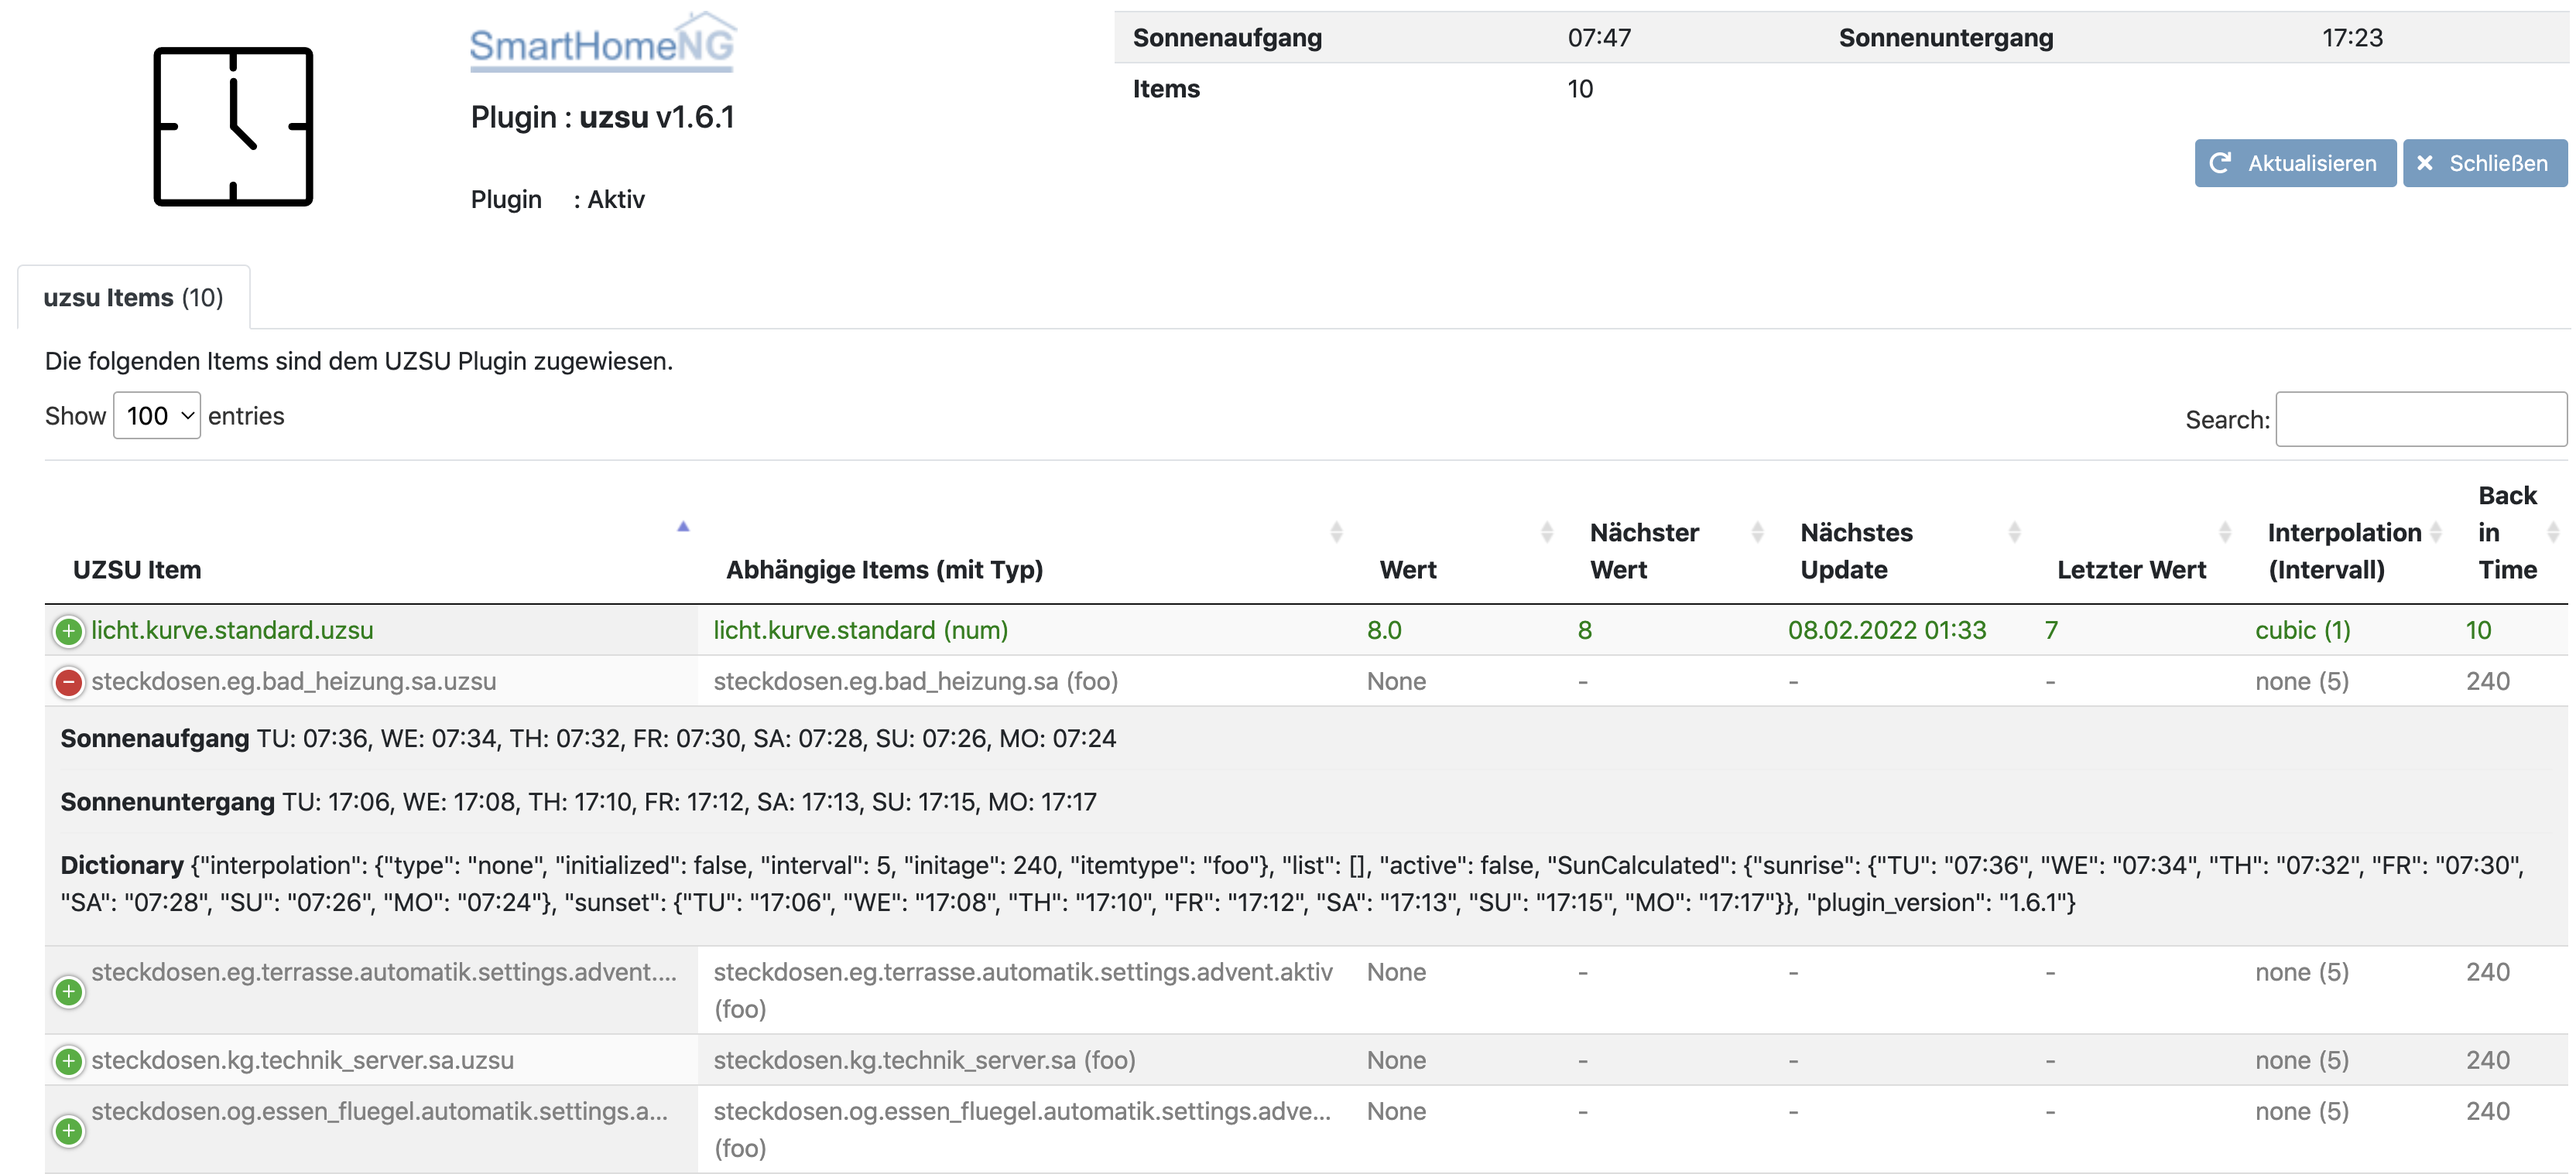
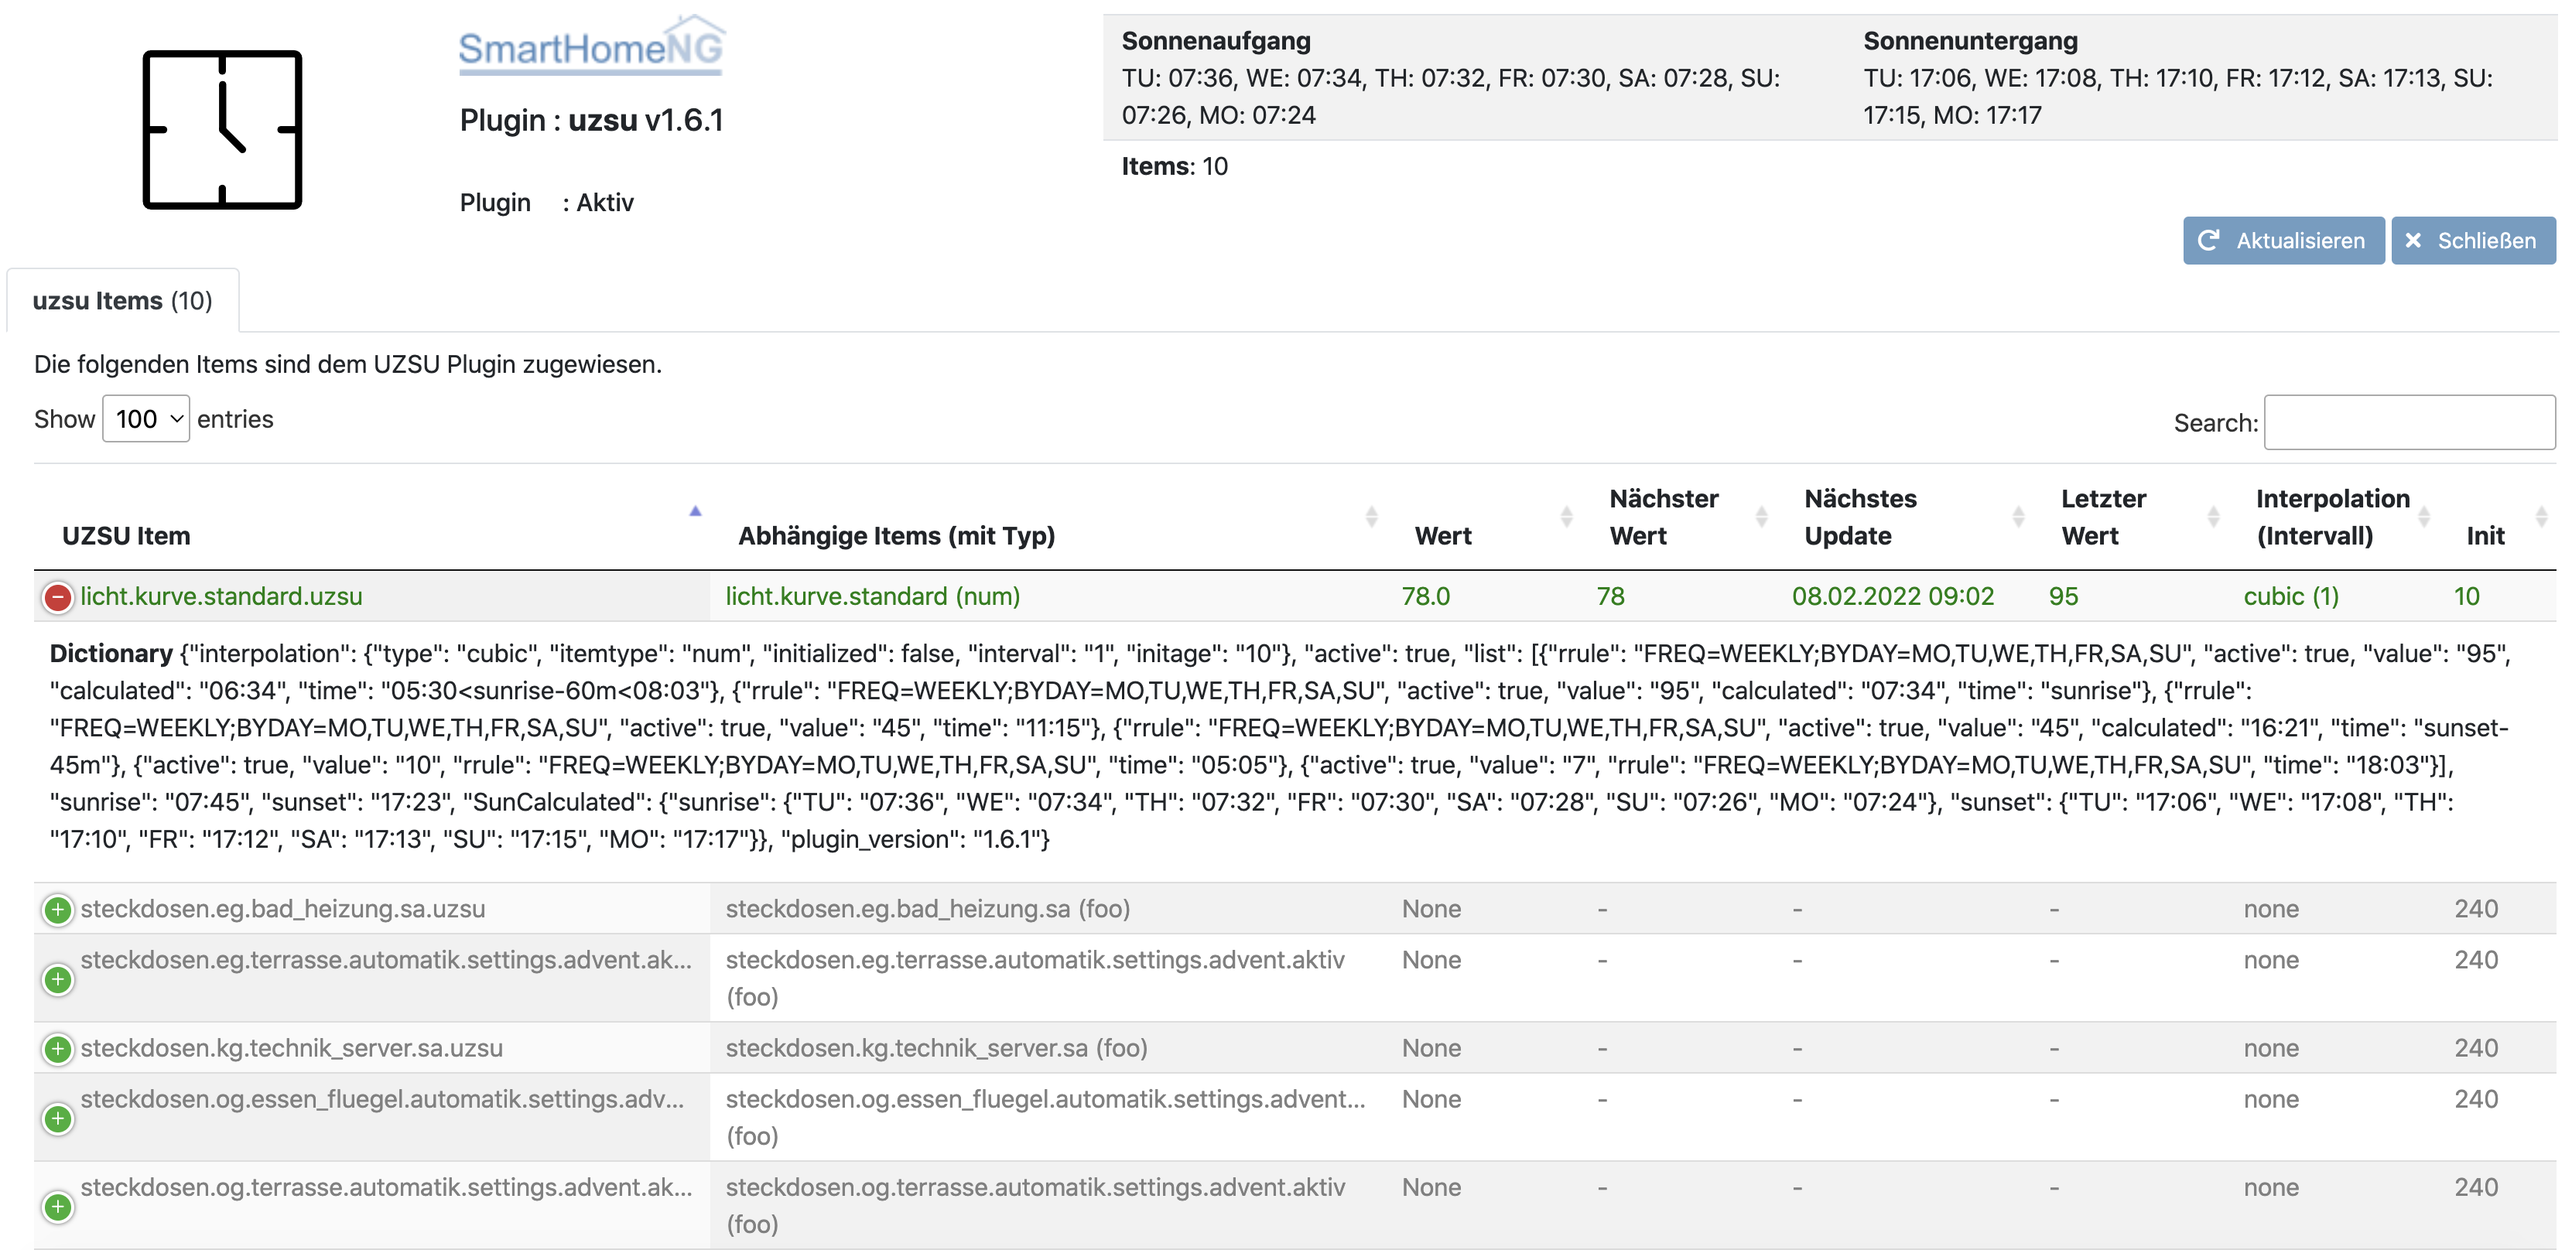
uzsu plugin: update docu and web interface

diff --git a/uzsu/webif/templates/index.html b/uzsu/webif/templates/index.html
@@ -39,7 +39,7 @@ function mainpage() {
 		try
 			{
 			table = $('#maintable').DataTable( {
-        "columnDefs": [{ "targets": [8,9,10], "className": "none"}].concat($.fn.dataTable.defaults.columnDefs)
+        "columnDefs": [{ "targets": [8], "className": "none"}].concat($.fn.dataTable.defaults.columnDefs)
       } );
 			}
 		catch (e)
@@ -139,8 +139,8 @@ function mainpage() {
         shngInsertText (item+'_nexttime', objResponse[item]['planned']['time'], 'maintable');
         shngInsertText (item+'_dependitem', depend_text, 'maintable');
         shngInsertText (item+'_lastvalue', lastvalue, 'maintable');
-        shngInsertText (item+'_sunrise', sunrise_text, 'maintable');
-        shngInsertText (item+'_sunset', sunset_text, 'maintable');
+        shngInsertText ('sunrise', sunrise_text);
+        shngInsertText ('sunset', sunset_text);
 			}
 		}
 	}
@@ -155,27 +155,17 @@ function mainpage() {
 {% set tabcount = 1 %}
 
 {% block headtable %}
-  {% set sun = {'sunrise': '-', 'sunset': '-'} %}
-  {% for item in p._items %}
-    {% if p._items[item]['sunrise'] and sun.sunrise == '-' %}
-      {% if sun.update({'sunrise': p._items[item]['sunrise']|string}) %} {% endif %}
-      {% if sun.update({'sunset': p._items[item]['sunset']|string}) %} {% endif %}
-    {% endif %}
-  {% endfor %}
 
 <table class="table table-striped table-hover">
   <tbody>
     <tr>
-      <td class="py-1"><strong>{{ _('Sonnenaufgang') }}</strong></td>
-      <td class="py-1">{{ sun.sunrise }}</td>
-      <td class="py-1" width="50px"></td>
-      <td class="py-1"><strong>{{ _('Sonnenuntergang') }}</strong></td>
-      <td class="py-1">{{ sun.sunset }}</td>
-      <td class="py-1" width="50px"></td>
+      <td class="py-1"><strong>{{ _('Sonnenaufgang') }}</strong><br>
+        <span id="sunrise">-</span></td>
+      <td class="py-1"><strong>{{ _('Sonnenuntergang') }}</strong><br>
+      <span id="sunset">-</span></td>
     </tr>
     <tr>
-      <td class="py-1"><strong>Items</strong></td>
-      <td class="py-1" colspan=5>{{ item_count }}</td>
+      <td class="py-1" colspan="2"><strong>Items</strong>: {{ item_count }}</td>
     </tr>
 
   </tbody>
@@ -200,8 +190,6 @@ function mainpage() {
       <th class="lastvalue">{{ _('Letzter Wert') }}</th>
       <th class="interpolation">{{ _('Interpolation (Intervall)') }}</th>
       <th class="bit">{{ _('Init') }}</th>
-      <th>{{ _('Sonnenaufgang') }}</th>
-      <th>{{ _('Sonnenuntergang') }}</th>
       <th>{{ _('Dictionary') }}</th>
     </tr>
     </thead>
@@ -227,12 +215,6 @@ function mainpage() {
                 ...
               </td>
               <td class="py-1" id="{{ item }}_backintime">
-                ...
-              </td>
-              <td id="{{ item }}_sunrise">
-                ...
-              </td>
-              <td id="{{ item }}_sunset">
                 ...
               </td>
               <td id="{{ item }}_dict">

diff --git a/uzsu/__init__.py b/uzsu/__init__.py
@@ -549,7 +549,7 @@ class UZSU(SmartPlugin):
         self._update_sun(item, caller='schedule')
         if self._items[item].get('interpolation') is None:
             self.logger.error("Something is wrong with your UZSU item. You most likely use a wrong smartVISU widget version!"
-                              " Use the latest device.uzsu from SV 2.9. "
+                              " Use the latest device.uzsu SV 2.9. or higher "
                               "If you write your uzsu dict directly please use the format given in the documentation: "
                               "https://www.smarthomeng.de/user/plugins/uzsu/user_doc.html and include the interpolation array correctly!")
             return

diff --git a/uzsu/user_doc.rst b/uzsu/user_doc.rst
@@ -72,6 +72,33 @@ Das UZSU Plugin wird durch die smartVISU ab Version 2.9 sowohl in Form eines Pop
 Bei Problemen bitte das entsprechende Supportforum konsultieren. Es wird empfohlen, die Visualisierung für das Einstellen der UZSU zu verwenden.
 
 
+Standard Einstellungen
+-----------------------
+
+Für die universelle Zeitschaltuhr können folgende Einstellungen vorgenommen werden:
+
+* Allgemein Aktivieren: Komplette UZSU (de)aktivieren
+* Wochentag: Es können beliebig viele Wochentage aktiviert werden. Wird kein Wochentag in der Visu gewählt, werden automatisch alle Wochentage aktiviert.
+* Wert: Der zu schaltende Wert
+* Zeit: Die Uhrzeit, zu der der gewünschte Wert geschaltet werden soll. Im Experten- und Serienmodus kann dieser Parameter auch detaillierter konfiguriert werden.
+* Aktivieren: Eintrag aktivieren oder deaktivieren.
+
+
+Experteneinstellungen
+---------------------
+
+Alternativ zu fest definierten Schaltzeiten lassen sich die Zeitpunkte auch in Abhängigkeit des Sonnenstandes
+definieren. Hier ist außerdem ein Offset zum Sonnenauf- und Sonnenuntergang in Minuten oder Grad einstellbar.
+Pro Eintrag kann auch ein frühester oder spätester Zeitpunkt gewählt werden, der dann herangezogen wird,
+wenn die sonnenbasierte Schaltung über diese Grenzwerte hinaus berechnet werden würde.
+
+
+Zeitserie
+---------
+
+Für wiederkehrende Schaltungen können auch Serien angelegt werden. Dabei ist ein Startzeitpunkt und ein Intervall zu definieren. Das Ende kann entweder über einen Zeitpunkt oder die Anzahl Wiederholungen definiert werden. Start- und Endzeitpunkte können wie beir normalen UZSU auch sonnenstandsabhängig deklariert werden.
+
+
 Interpolation
 =============
 
@@ -92,8 +119,8 @@ Interpolation ist ein eigenes Dict innerhalb des UZSU Dictionary mit folgenden E
 -  **initizialized**: bool, wird beim Pluginstart automatisch gesetzt, sobald ein gültiger Eintrag innerhalb der initage Zeit gefunden wurde und diese Initialisierung tatsächlich ausgeführt wurde.
 
 
-Funktionen
-==========
+Pluginfunktionen
+================
 
 Detaillierte Informationen zu den Funktionen des Plugins sind unter :doc:`/plugins_doc/config/uzsu` zu finden.
 
@@ -102,6 +129,8 @@ Webinterface
 ============
 
 Das Webinterface bietet folgende Informationen:
+
+-  **Allgemeines**: Oben rechts werden die berechneten Sonnenauf- und Sonnenuntergänge der nächsten 7 Tage und die Anzahl der UZSU Items angezeigt.
 
 -  **UZSUs**: Liste aller UZSU Items mit farbkodierter Information über den Status (inaktiv = grau, aktiv = grün, Problem = rot)
 
@@ -119,13 +148,11 @@ Das Webinterface bietet folgende Informationen:
 
 -  **Init**: Back in Time bzw. init age Wert
 
--  **Sonne**: Durch Klicken auf das Plus am Beginn jeder Zeile werden die berechneten Sonnenauf- und Sonnenuntergänge der nächsten 7 Tage angezeigt.
-
 -  **dict**: Durch Klicken auf das Plus am Beginn jeder Zeile wird das gesamte Dictionary einer UZSU angezeigt.
 
 .. image:: uzsu_webif.png
-   :height: 1518px
-   :width: 3228px
+   :height: 1616px
+   :width: 3324px
    :scale: 25%
    :alt: Web Interface
    :align: center
@@ -141,8 +168,10 @@ Folgender Python Aufruf bzw. Dictionary Eintrag schaltet das Licht jeden zweiten
    sh.eg.wohnen.leuchte.uzsu({'active':True, 'list':[
    {'value':100, 'active':True, 'rrule':'FREQ=DAILY;INTERVAL=2', 'time': '16:30'},
    {'value':0, 'active':True, 'rrule':'FREQ=DAILY;INTERVAL=2', 'time': '17:30'}],
-   'interpolation': {'interval': 5, 'type': 'cubic', 'initialized': False, 'itemtype': 'num', 'initage': 0}
-   })
+   'interpolation': {'interval': 5, 'type': 'cubic', 'initialized': False, 'itemtype': 'num', 'initage': 0}, 'sunrise': '07:45', 'sunset': '17:23', 'SunCalculated': {'sunrise':
+   {'TU': '07:36', 'WE': '07:38', 'TH': '07:34', 'FR': '07:32', 'SA': '07:30', 'SU': '07:28', 'MO': '07:26'},
+   'sunset': {'TU': '17:16', 'WE': '17:18', 'TH': '17:20', 'FR': '17:22', 'SA': '17:23', 'SU': '17:25', 'MO': '17:27'}},
+   'plugin_version': '1.6.1'})
 
 
 Datenformat
